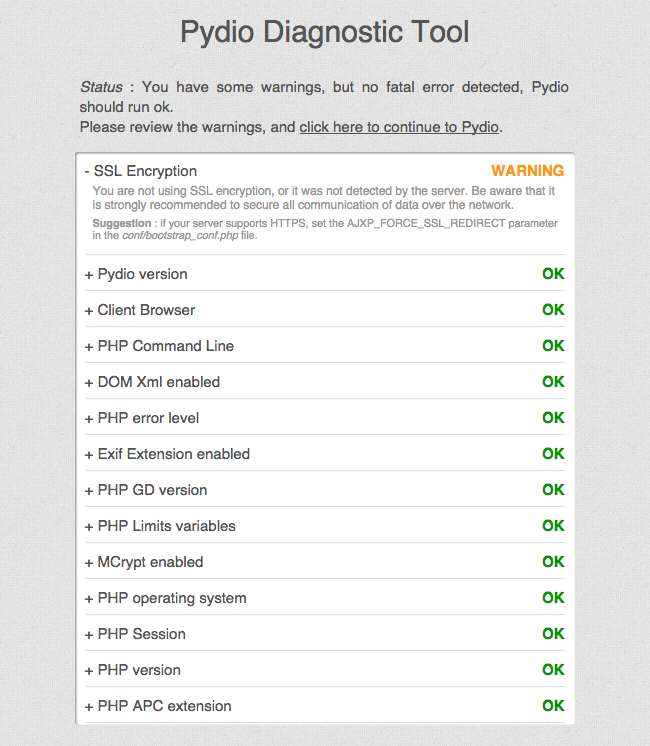
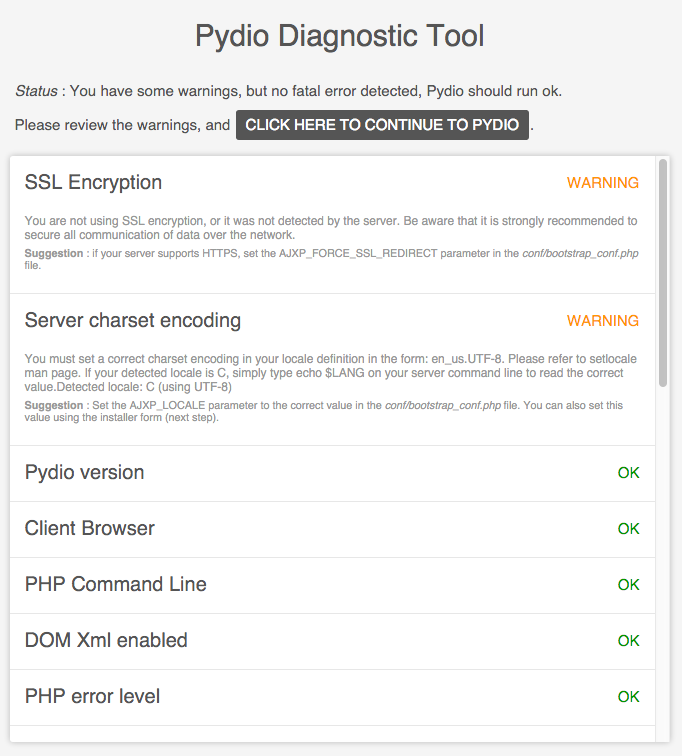
change "Ajaxplorer" to "Pydio" and "repository" to "Workspace"... change le quick_start part to the new GUI installation of Pydio v6

Changed region(s): [[0.0, 0.0, 1.0, 1.0], [0.9846, 0.9866, 1.0, 1.0], [0.0, 0.0308, 0.0308, 0.0617]]

diff --git a/enriching_your_users_experience/plugins.md b/enriching_your_users_experience/plugins.md
@@ -20,7 +20,7 @@ Plugins can be seen as “features”. They come packed with their own actions a
         </server_settings>
     </logdriver>
 
-The manifest.xml defines all the parameters a plugin can handle. Parameters can be “global” (i.e. shared by all instances of this plugin) or “local” (specific for an instance). This apply to plugins that are linked to a repository : the “local”  or “instance” parameters can be different from one repository to another. It can also import options from the Pydio **mixins**, that allow the factorization of common behaviours accross plugins. All these parameters are self-documented, and the “Plugins” section of this site gives you a description of each parameter.
+The manifest.xml defines all the parameters a plugin can handle. Parameters can be “global” (i.e. shared by all instances of this plugin) or “local” (specific for an instance). This apply to plugins that are linked to a workspace : the “local”  or “instance” parameters can be different from one workspace to another. It can also import options from the Pydio **mixins**, that allow the factorization of common behaviours accross plugins. All these parameters are self-documented, and the “Plugins” section of this site gives you a description of each parameter.
 
 The **core* plugin type is a specific type that also factorize behaviours : given any “ptype” plugin type, if there is a “core.ptype” plugin, it will be automatically loaded and the parameters will be added to any “ptype.pname” plugin. For example, all “auth” plugins inherits from the “core.auth” plugin. At the top of this is the **core.ajaxplorer** that is untouchable, and comes bundled with various basic resources.
 
@@ -32,7 +32,7 @@ Most of the time, you’ll have to simply CLEAR THE SERVER CACHE : simply remove
 ### Understanding plugins lifecycle
 By default, all plugin have the following lifecycle :
 
-**Detected** by the application (folder has been dropped in the plugins folder) => **Special checks performed** (if wrong, cannot be activated) => **Enabled** (i.e ready for use) => **“Activated”**, either through the GUI (example editor.diaporama), through specific configuration files (exemple auth.serial), or through the activation of a repository that explicitly makes use of this plugin (example meta.exif), see next section.
+**Detected** by the application (folder has been dropped in the plugins folder) => **Special checks performed** (if wrong, cannot be activated) => **Enabled** (i.e ready for use) => **“Activated”**, either through the GUI (example editor.diaporama), through specific configuration files (exemple auth.serial), or through the activation of a workspace that explicitly makes use of this plugin (example meta.exif), see next section.
 
 Plugins can define dependencies to other plugins, making them inactive if the given dependencies cannot be found. When troubleshooting a plugin, fist thing is to check it’s defined in the ACTIVE_PLUGINS of the config file, next it can be interesting to verify that all these dependancies are indeed active. Again, see the dependencies in the manifest.xml.For example, the editor.codepress plugin is a source code editor, that is based on the editor.text plugin. In the manifest file, you can see
 
@@ -42,4 +42,4 @@ Plugins can define dependencies to other plugins, making them inactive if the gi
           <activePlugin pluginName="access.fs|access.ftp|access.demo|access.remote_fs"/>
     </dependencies>
     
-This shows that the plugin needs the editor.text resources to be loaded (so the editor.text must be indeed available), and also that this plugin will be active only if one of the defined access plugin is also active. Concretely, this means that editor.codepress is active when the current repository is an access.fs repository, but not when the current repository is based on access.mysql for example. Which is logical, as editor.codepress can only handle a given type of data, a file.
+This shows that the plugin needs the editor.text resources to be loaded (so the editor.text must be indeed available), and also that this plugin will be active only if one of the defined access plugin is also active. Concretely, this means that editor.codepress is active when the current workspace is an access.fs workspace, but not when the current workspace is based on access.mysql for example. Which is logical, as editor.codepress can only handle a given type of data, a file.

diff --git a/getting-started/quick-start.md b/getting-started/quick-start.md
@@ -31,21 +31,33 @@ Once you think you have correctly fixed the issue, simply reload the page to see
 
 See the How-To’s for an exhaustive list of tests and solutions.
 
-### Pydio provides you a GUI-based installer that will guide you through the basic configurations.
+### Pydio provides you a GUI-based installer that will guide you through the basic configurations which is cut in three part.
 
-- **Admin access:** Define the master user name and password that you will use to connect as an administrator user.
-- **Global Options: Two major parameters here:**
+- **Main Options: Five parameters here:**
+    + **Application Title: The title to display in the tab.**
+    + **Welcome Message: An additional message displayed at startup, on the splash screen and the login screen.**
+    + **Administrator Login: The administrator login to connect to Pydio.**
+    + **Administrator Full Name: Full name of the administrator.**
+    + **Administrator Password: We recommend you have capital letters and special characters in your password.**
+
+[:image-popup:quick_start/01-MAIN-OPTIONS.png]
+
+    **Configuration Storage**: defines a basic storage type for all Pydio configuration data. These are the internal application data (users definitions, workspaces parameters, etc), not the actual business data (your files).
+    Use a DB-based storage, the no-db is still active for backward compatibiliy but should be considered as deprecated.  You can use a MySQL, PostgreSQL or Sqlite server. The latter is a good option for a quick start, as it will create a simple in-file DB in your Pydio data folder.
+
+[:image-popup:quick_start/02-DATABASE-CONNECTON.png]
+
+- **Advanced Options: Two major parameters here:**
     + **Encoding**: the “Encoding” parameter must be correctly set otherwise you will very probably bump into problems if you upload files with names containing non-ascii characters (like french èé, german ü, etc;…).
     On a Linux install, the detected value will generally display an ENCODING (like UTF-8), but make sure to set it with a LOCALE.ENCODING value, like en_US.UTF-8, or fr_FR.UTF-8, etc… Login to your server and type ‘echo $LANG’ in a console and copy the result.
     Windows should be left empty.
     + **Server Path**: the server path should be automatically detected by the installer, but make sure that it’s correct. It is the path of Pydio install from the webroot. E.g if Pydio is installed on https://yourdomain.com/path/to/pydio , must be /path/to/pydio. This is important as it is used for the rewrite rules.
 
-[:image-popup:quick_start/01-INSTALL-GLOBAL.png]
+[:image-popup:quick_start/03-ADVANCED-OPTIONS.png]
 
-    + **Configuration Storage**: defines a basic storage type for all Pydio configuration data. These are the internal application data (users definitions, workspaces parameters, etc), not the actual business data (your files).
-    Use a DB-based storage, the no-db is still active for backward compatibiliy but should be considered as deprecated.  You can use a MySQL, PostgreSQL or Sqlite server. The latter is a good option for a quick start, as it will create a simple in-file DB in your Pydio data folder.
+Once you are ready to go, click on “Install Pydio Now” and the page should refresh and provide you a login dialog.
+After the installation is complete, you should have a page like this :
 
-[:image-popup:quick_start/02-INSTALL-STORAGE.png]
+[:image-popup:quick_start/04-FINISH.png]
 
-Once you are ready to go, click on “Install Pydio Now” and the page should refresh and provide you a login dialog. Use the admin login you just defined to enter. You’re in!
-
+Use the admin login you just defined to enter. You’re in!

diff --git a/users_managements/inheritance_groups_and_users_roles.md b/users_managements/inheritance_groups_and_users_roles.md
@@ -1,11 +1,11 @@
 ### Using Roles in Pydio
 A role contains the following informations :
 
-+ **Access Control List** (ACL) : a list of rights giving or denying an access to each repositories defined in the application. Internally, the right string can be « r » (read), « w » (write ), a combination of these two, or « AJXP_VALUE_CLEAR » as deny (to force clearing a previously set value in another role).
-+ **Parameters Refinement** (Parameters) : a tree of plugins parameters values that can be applied to all repositories or only to a given set of repositories.
-+ **Actions Disabled** (Actions) : a tree of  disabled plugins actions, that can be as well disabled for all repositories or only a precise list.  Parameters and Actions can in some case be applicable only for a given list of repositories.
++ **Access Control List** (ACL) : a list of rights giving or denying an access to each workspace defined in the application. Internally, the right string can be « r » (read), « w » (write ), a combination of these two, or « AJXP_VALUE_CLEAR » as deny (to force clearing a previously set value in another role).
++ **Parameters Refinement** (Parameters) : a tree of plugins parameters values that can be applied to all workspace or only to a given set of workspace.
++ **Actions Disabled** (Actions) : a tree of  disabled plugins actions, that can be as well disabled for all workspace or only a precise list.  Parameters and Actions can in some case be applicable only for a given list of workspace.
 
-You can see the various categories to the corresponding tabs of the edition interface in the Settings Repository (see screenshot below).
+You can see the various categories to the corresponding tabs of the edition interface in the Settings workspace (see screenshot below).
 
 [:image-popup:inheritance_groups_and_users_roles/14-GROUPS-USERS-ROLES.png]
 Figure 1 Role Edition Interface
@@ -29,7 +29,7 @@ For example, a user U1 from group G1, to whom one have applied a specific role R
 
 #### _Use Cases_
 
-This « refinement » processus is very flexible, and allows you to configure the accesses, parameters and actions of each plugin, for each repository, at a very fine level. Generally, the « Groups » is a right place to preconfigure a couple of parameters, but sometime you’ll want to disable some specific action for a given user, in which case you’ll edit directly the user role.
+This « refinement » processus is very flexible, and allows you to configure the accesses, parameters and actions of each plugin, for each workspace, at a very fine level. Generally, the « Groups » is a right place to preconfigure a couple of parameters, but sometime you’ll want to disable some specific action for a given user, in which case you’ll edit directly the user role.
 
 ### Specific profiles
 Another interesting feature of the roles one creates manually in the application is that they can automatically be applied to a given profile of users. There are currently four profiles of users : Standard, Administrator, Shared and Guest.

diff --git a/workspaces/workspaces_drivers.md b/workspaces/workspaces_drivers.md
@@ -1,6 +1,6 @@
 As explained in the Introduction to Workspaces, workspace is defined by two things : the “driver” used to access the data (local filesystem, remote ftp server, database, etc…), and the configuration of this driver (the local path to the files, the database credentials, etc). You can even develop your own access driver by following the plugin api. The full list of available drivers for accessing the data is in the “Plugins” part of this documentation, above the “access” category : **https://pyd.io/plugins/access/**
 
-To create a workspace, click on “New Repo” in the toolbar and fill the dialog window : use a short, unique and understandable label, and choose the driver that will be used for this workspace. If you don’t have an idea of what a driver is, simply choose the “File System (Standard)” driver. Then, depending on the chosen driver, some parameters will appear. By putting your mouse over the “?” buttons, you can have more info about each parameter. All parameters followed by a star “*” are mandatory. Consult also the “access” plugin documentation on the website. Once your configuration is ok, save the workspace. The repositories list (top left of your screen) should be automatically updated, and you can switch to the new workspace to see if everything is alright (by default, admin user has read/write to all repositories, even newly created).
+To create a workspace, click on “New Repo” in the toolbar and fill the dialog window : use a short, unique and understandable label, and choose the driver that will be used for this workspace. If you don’t have an idea of what a driver is, simply choose the “File System (Standard)” driver. Then, depending on the chosen driver, some parameters will appear. By putting your mouse over the “?” buttons, you can have more info about each parameter. All parameters followed by a star “*” are mandatory. Consult also the “access” plugin documentation on the website. Once your configuration is ok, save the workspace. The workspace list (top left of your screen) should be automatically updated, and you can switch to the new workspace to see if everything is alright (by default, admin user has read/write to all workspace, even newly created).
 
 The following chapter will go through the main drivers available.
 

diff --git a/workspaces/workspaces_drivers/accessing_remote_servers.md b/workspaces/workspaces_drivers/accessing_remote_servers.md
@@ -3,8 +3,8 @@ Pydio comes bundled with plugins to accessing remote file-system based servers v
 + **FTP**: use the FTP protocole to access the remote server. You can setup the standard FTP parameters (Port, Active / Passive, etc). Authentication credentials to be identified on the remote server can be passed in various manners (see below).
 + **Sftp**: implement FTP over SSH. This is more stable and more performant than FTP, thus recommanded if your server can handle it. However, this requires **libssl2** to be installed ( = **php_ssh2** extension on Windows ).
 + **Samba**: Browse files on a server available via the Samba protocol. This requires smbclient to be installed on the server (tested on *nix & windows). For linux based servers, access.fs + meta.mount solution should be preferred (using CIFS protocol instead of SMB).
-+ **WebDAV**: Browse an http WebDAV server. Warning, do not confuse this feature with the ability of AjaXporer to serve any workspaces files as through WebDAV to other clients! This driver requires the Pear::HTTP_WebDAV_Client library.
-+ **Dropbox**: using this driver, you can create a connexion to an existing Dropbox account. Requires an OAuth implemation (see the plugin identity card). Using “Templates”, you could let your users create their own repository, thus entering their own Dropbox keys.
++ **WebDAV**: Browse an http WebDAV server. Warning, do not confuse this feature with the ability of Pydio to serve any workspaces files as through WebDAV to other clients! This driver requires the Pear::HTTP_WebDAV_Client library.
++ **Dropbox**: using this driver, you can create a connexion to an existing Dropbox account. Requires an OAuth implemation (see the plugin identity card). Using “Templates”, you could let your users create their own workspace, thus entering their own Dropbox keys.
 
 ### Passing drivers credentials
 When accessing remote servers, most drivers will require an identification using credentials (user / password pair). When configuring a workspace driver, the necessary credentials can be passed in various manners (again) :

diff --git a/getting-started/upgrading_from_previous_version.md b/getting-started/upgrading_from_previous_version.md
@@ -40,11 +40,11 @@ There is a specific « Import Tool » developed in v4.X to import v3.2.X data. I
 ### Upgrade to 3.2.4 from below
 In standard installation (no specific customization except configuration), your specific configuration data can be found in server/conf/ and server/users. On this base, the upgrade should be quite straightforward :
 
-+ Download and install AjaXplorer inside a new folder
++ Download and install Pydio inside a new folder
 + Copy the whole content of the old server/users/ folder inside the new server/users/
 + Do the same with the old server/logs/ folder content
 + If you had not made any changes to server/conf/conf.php, this step is not necessary. Otherwise, open the old and new server/conf/conf.php and compare them. Copy your changes to the new file.
 +C opy the file server/conf/repo.ser inside the new server/conf/ folder.
-+ If the files accessed by your repositories where inside the ajaxplorer installation (which is not recommended), you have to copy them to the new location, and you’ll have to re-check the PATH parameter of your repositories. [A tip : working on a remote server, if you don’t have an ssh access, use AjaXplorer to make this move, as it can be quite long if you have to use ftp…]
++ If the files accessed by your repositories where inside the Pydio installation (which is not recommended), you have to copy them to the new location, and you’ll have to re-check the PATH parameter of your repositories. [A tip : working on a remote server, if you don’t have an ssh access, use Pydio to make this move, as it can be quite long if you have to use ftp…]
 + Access your new install. You may see the diagnostic page, as the the diagnostic results are generated at install. Go forward and you should be able to login with the previous users rights and repositories.
 + If you had specific plugins that need external downloads, do not forget to update them (CKEditor distribution, OpenLayer distribution)

diff --git a/workspaces/workspace_templates.md b/workspaces/workspace_templates.md
@@ -12,7 +12,7 @@ When you create a template, the standard parameters forms have a “checkbox” 
 
 #### _Template specific variable : AJXP_ALLOW_SUB_PATH_
 
-You can use in the various fields (like the Path field) the standard keywords (AJXP_INSTALL_PATH, AJXP_DATA_PATH, AJXP_USER, AJXP_GROUP_PATH), but also a specific template keyword : AJXP_ALLOW_SUB_PATH. This keyword is often the key to your sandboxing nightmares : by defining a path with like the following /path/to/folder/AJXP_ALLOW_SUB_PATH, the parameter can be later on set with a path that will always be prepended (and not resolved of course) by /path/to/folder/. That way a user may enter “myown_folder”, the final repository path will point to /path/to/folder/myown_folder.
+You can use in the various fields (like the Path field) the standard keywords (AJXP_INSTALL_PATH, AJXP_DATA_PATH, AJXP_USER, AJXP_GROUP_PATH), but also a specific template keyword : AJXP_ALLOW_SUB_PATH. This keyword is often the key to your sandboxing nightmares : by defining a path with like the following /path/to/folder/AJXP_ALLOW_SUB_PATH, the parameter can be later on set with a path that will always be prepended (and not resolved of course) by /path/to/folder/. That way a user may enter “myown_folder”, the final workspace path will point to /path/to/folder/myown_folder.
 
 If the user enters something like “../../myown_folder”, the path will always be cleaned up and the result will be the same /path/to/folder/myown_folder.
 

diff --git a/workspaces/workspaces_additional_features.md b/workspaces/workspaces_additional_features.md
@@ -1,4 +1,4 @@
-Once the workspace is saved, you can reopen it and see that you have a new tab in the workspace edition dialog, “Repository Features”. In this tab, you can add “Metadata” sources support for the workspace. “Metadata” are data that will be attached dynamically to the “core” data of the workspace.
+Once the workspace is saved, you can reopen it and see that you have a new tab in the workspace edition dialog, “Workspace Features”. In this tab, you can add “Metadata” sources support for the workspace. “Metadata” are data that will be attached dynamically to the “core” data of the workspace.
 
 For example, it can be users comments attached to any file/folder of a filesystem, or versioning information, etc. This is “decoupled” from the main access driver of the workspace, because the metadata can use various implementation for the same result. For example, user comments on a file/folder can be saved directly in the filesystem (in hidden files, or in the filesystem metadata if supported), or in an external database, or even why not in the client browser cookies… ?? Below is a schema demonstrating how metadata “enrich” the data.
 

diff --git a/users_managements/actions_parameters_tabs.md b/users_managements/actions_parameters_tabs.md
@@ -8,7 +8,7 @@ The Actions tab provides you a simple GUI to disable any action provided by any 
 
 [:image-popup:action_and_parameters_tabs/screenshot-2013-05-08-at-15-41-03.png]
 
-+ In the third selector (Repository Scope), you will select to which repository (a.k.a Workspace) this specific setting will apply : either to all of them, or only one of them that you can choose, or specific subset that are “Shared Workspaces” : these are workspaces created by the users when they share a folder.
++ In the third selector (Workspace Scope), you will select to which Workspace this specific setting will apply : either to all of them, or only one of them that you can choose, or specific subset that are “Shared Workspaces” : these are workspaces created by the users when they share a folder.
 + Finally, and don’t forget this step, **click on the “add action” button**. A new line should appear in the list below, describing the choice you just done.
 + Save the role.
 Now if you log in as user to whom you have applied this role, you should see that the “Download” button has disappeared.

diff --git a/enriching_your_users_experience/command_line_version_of_the_server.md b/enriching_your_users_experience/command_line_version_of_the_server.md
@@ -8,11 +8,11 @@ It’s possible to launch the whole framework and execute the actions via the co
 This is already implemented in two new features, (see further), and should be generalized wherever possible!
 
 + Http Downloader : ability to trigger a remote file download asynchronously, without to have to keep a browser window open.
-+ Zend Indexation : index the whole content of a repository asynchronously.
++ Zend Indexation : index the whole content of a workspace asynchronously.
 
 If you want to play with the command line, placed at the root of the installation, you can simply call something like :
 
-    php cmd.php -u=user -p=password -a=action -r=repository_id --param1=value1 --param2=value2
+    php cmd.php -u=user -p=password -a=action -r=workspace_id --param1=value1 --param2=value2
 
 Note the difference between **simple-dash** parameters and **double-dash** parameters : the latter ones are the parameters passed to the required “action”.
 

diff --git a/global-parameters/setup_authentication_driver/binding_to_an_existing_LDAP_server.md b/global-parameters/setup_authentication_driver/binding_to_an_existing_LDAP_server.md
@@ -71,7 +71,7 @@ So, you can map the LDAP “email” attribute or AD “Mail” attribute to the
 
 When you’re using an LDAP directory that supports the « memberOf » attribute (i.e. you have Microsoft Active Directory, or an LDAP server with the « memberOf » overlay set up), you can use the attribute mapping mechanism to integrate your Active Directory groups in Pydio. This is explained in more detail in the How-To section : [Groups and Roles with LDAP/AD integration](https://pyd.io/groups-and-roles-with-ldapad-integration-draft/)
 
-You will also need a good understanding of Ajaxporer’s Groups and Roles to make good use of this featurel.
+You will also need a good understanding of Pydio’s Groups and Roles to make good use of this featurel.
 
  
 

diff --git a/workspaces/workspaces_additional_features/files_versionning.md b/workspaces/workspaces_additional_features/files_versionning.md
@@ -5,7 +5,7 @@ The current implementation is based on Git for the sake of simplicity, and it ha
 
 + Only works for FS-based workspaces
 + Git is known for not very well scaling for huge files. Thus if you are planning to use only media files for example (videos), you should probably avoid this.
-Appart of that, it’s working neatly, and implementing versionning through a git repository also allows you to interact with the versionning system through external application.
+Appart of that, it’s working neatly, and implementing versionning through a git workspace also allows you to interact with the versionning system through external application.
 
 [:image-popup:files_versionning/11-VERSIONING.png]
 
